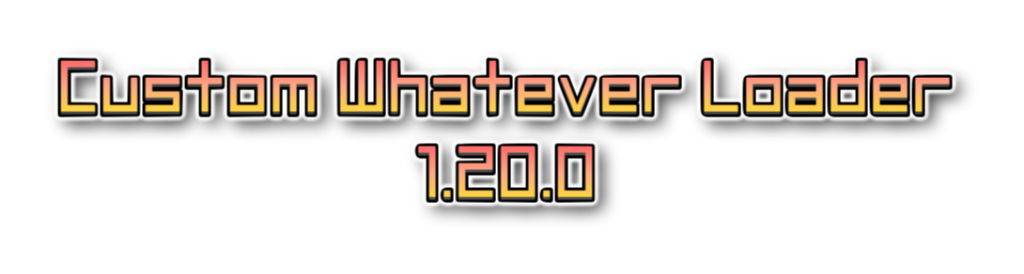
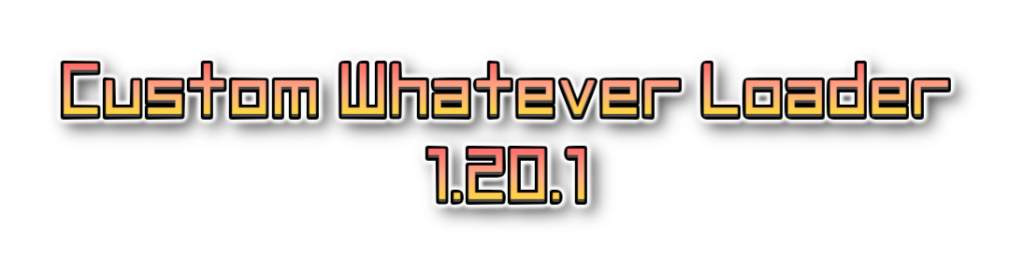
chore(CWL): upload assets

diff --git a/CustomWhateverLoader/API/Custom/CustomConverter.cs b/CustomWhateverLoader/API/Custom/CustomConverter.cs
@@ -42,7 +42,7 @@ public class CustomConverter : TraitBrewery
 
         foreach (var product in GenerateProducts(owner, card)) {
             _OnProduce((Thing)card, product);
-            if (owner.trait != this) {
+            if (owner.trait is not CustomConverter) {
                 owner.trait.InstanceDispatch("_OnProduce", card, product);
             }
         }
@@ -96,7 +96,7 @@ public class CustomConverter : TraitBrewery
     }
 
     [ConsoleCommand("reload")]
-    [CwlContextMenu("Converter/Reload", "cwl_ui_converter_reload")]
+    [CwlContextMenu("cwl_ui_converter/cwl_ui_converter_reload")]
     public static string ReloadAllConverterData()
     {
         _cached.Clear();

diff --git a/CustomWhateverLoader/Loader/CustomWhateverLoader.cs b/CustomWhateverLoader/Loader/CustomWhateverLoader.cs
@@ -9,7 +9,7 @@ public static class ModInfo
     // for legacy reason
     public const string Guid = "dk.elinplugins.customdialogloader";
     public const string Name = "Custom Whatever Loader";
-    public const string Version = "1.20.0";
+    public const string Version = "1.20.1";
 }
 
 [BepInPlugin(ModInfo.Guid, ModInfo.Name, ModInfo.Version)]
